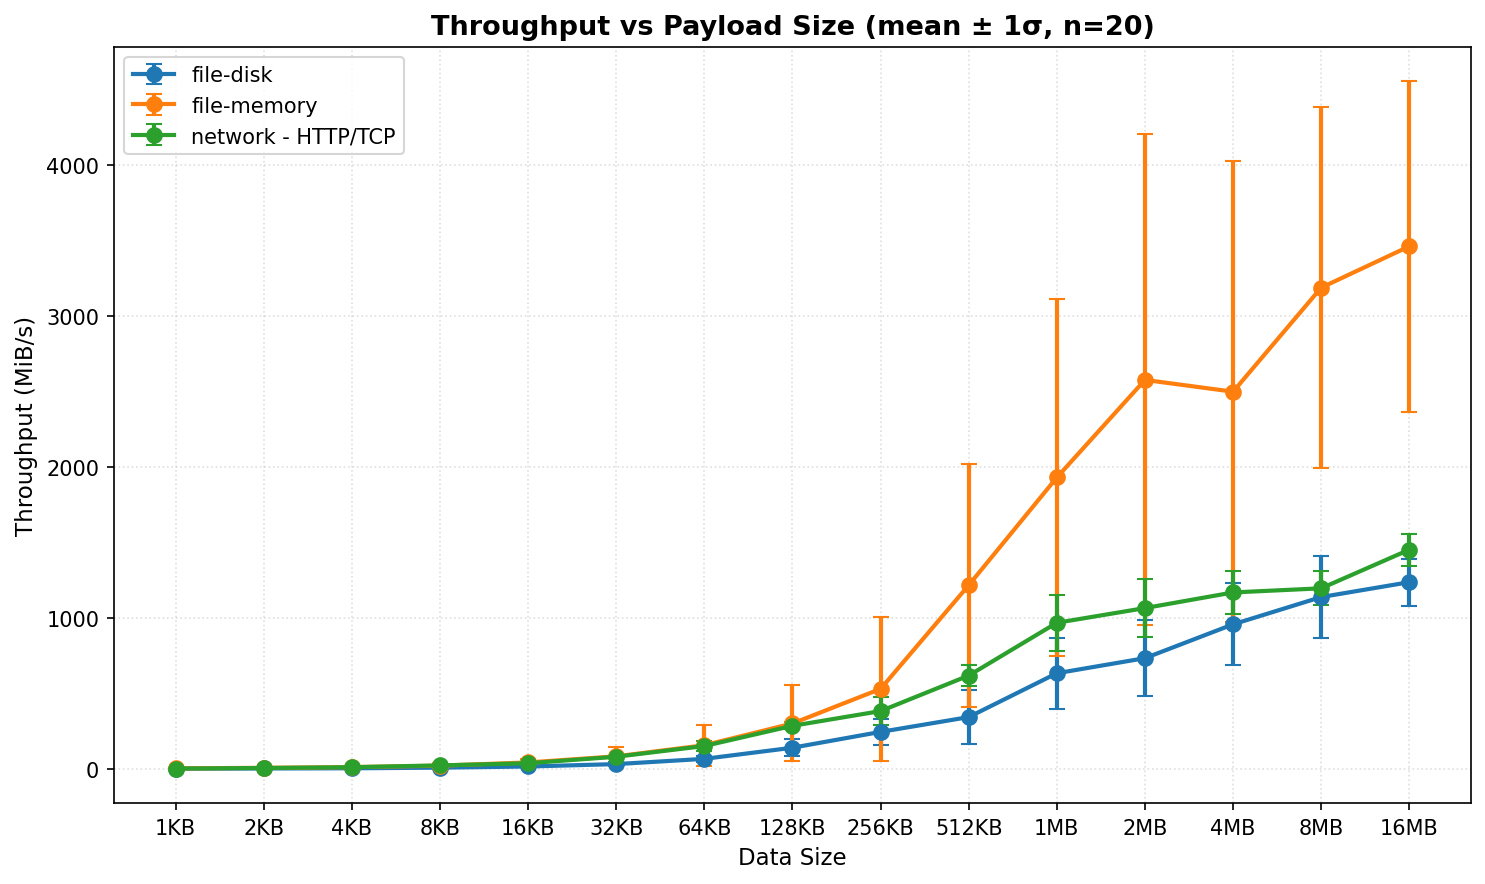
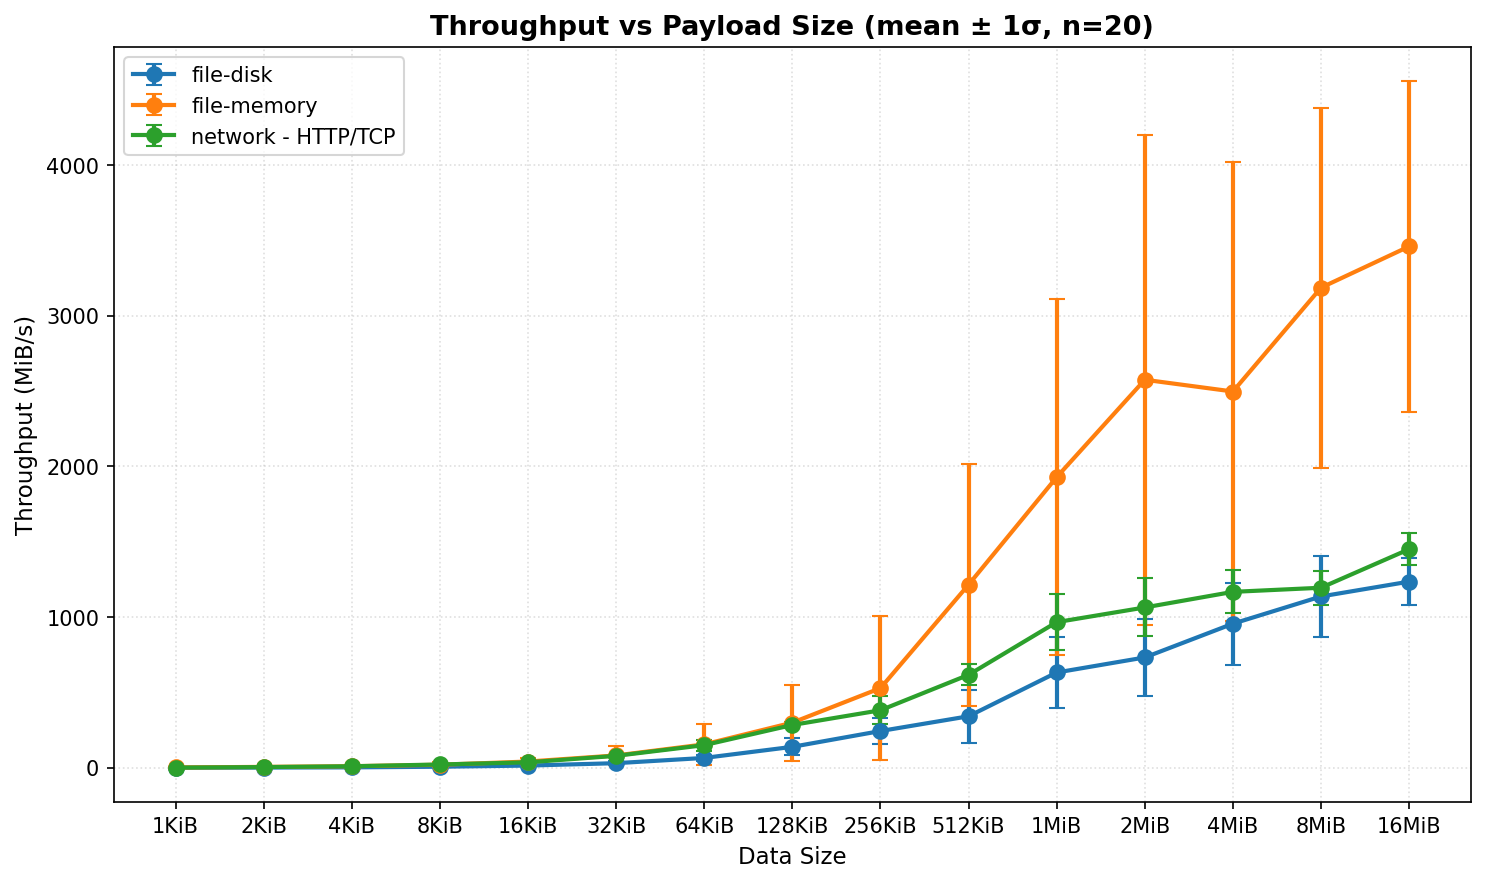
update byte size notation

diff --git a/vis/plot_bench.py b/vis/plot_bench.py
@@ -120,12 +120,12 @@ def compute_transfer_time_stats(df: pd.DataFrame) -> pd.DataFrame:
 # ============================================================================
 
 def format_bytes(bytes_val: int) -> str:
-    """Format byte size as human-readable string (e.g., 1KB, 1MB)."""
-    for unit in ["B", "KB", "MB", "GB"]:
+    """Format byte size as human-readable string (e.g., 1KiB, 1MiB)."""
+    for unit in ["B", "KiB", "MiB", "GiB"]:
         if bytes_val < 1024:
             return f"{bytes_val:.0f}{unit}"
         bytes_val /= 1024
-    return f"{bytes_val:.1f}TB"
+    return f"{bytes_val:.1f}TiB"
 
 
 # ============================================================================
